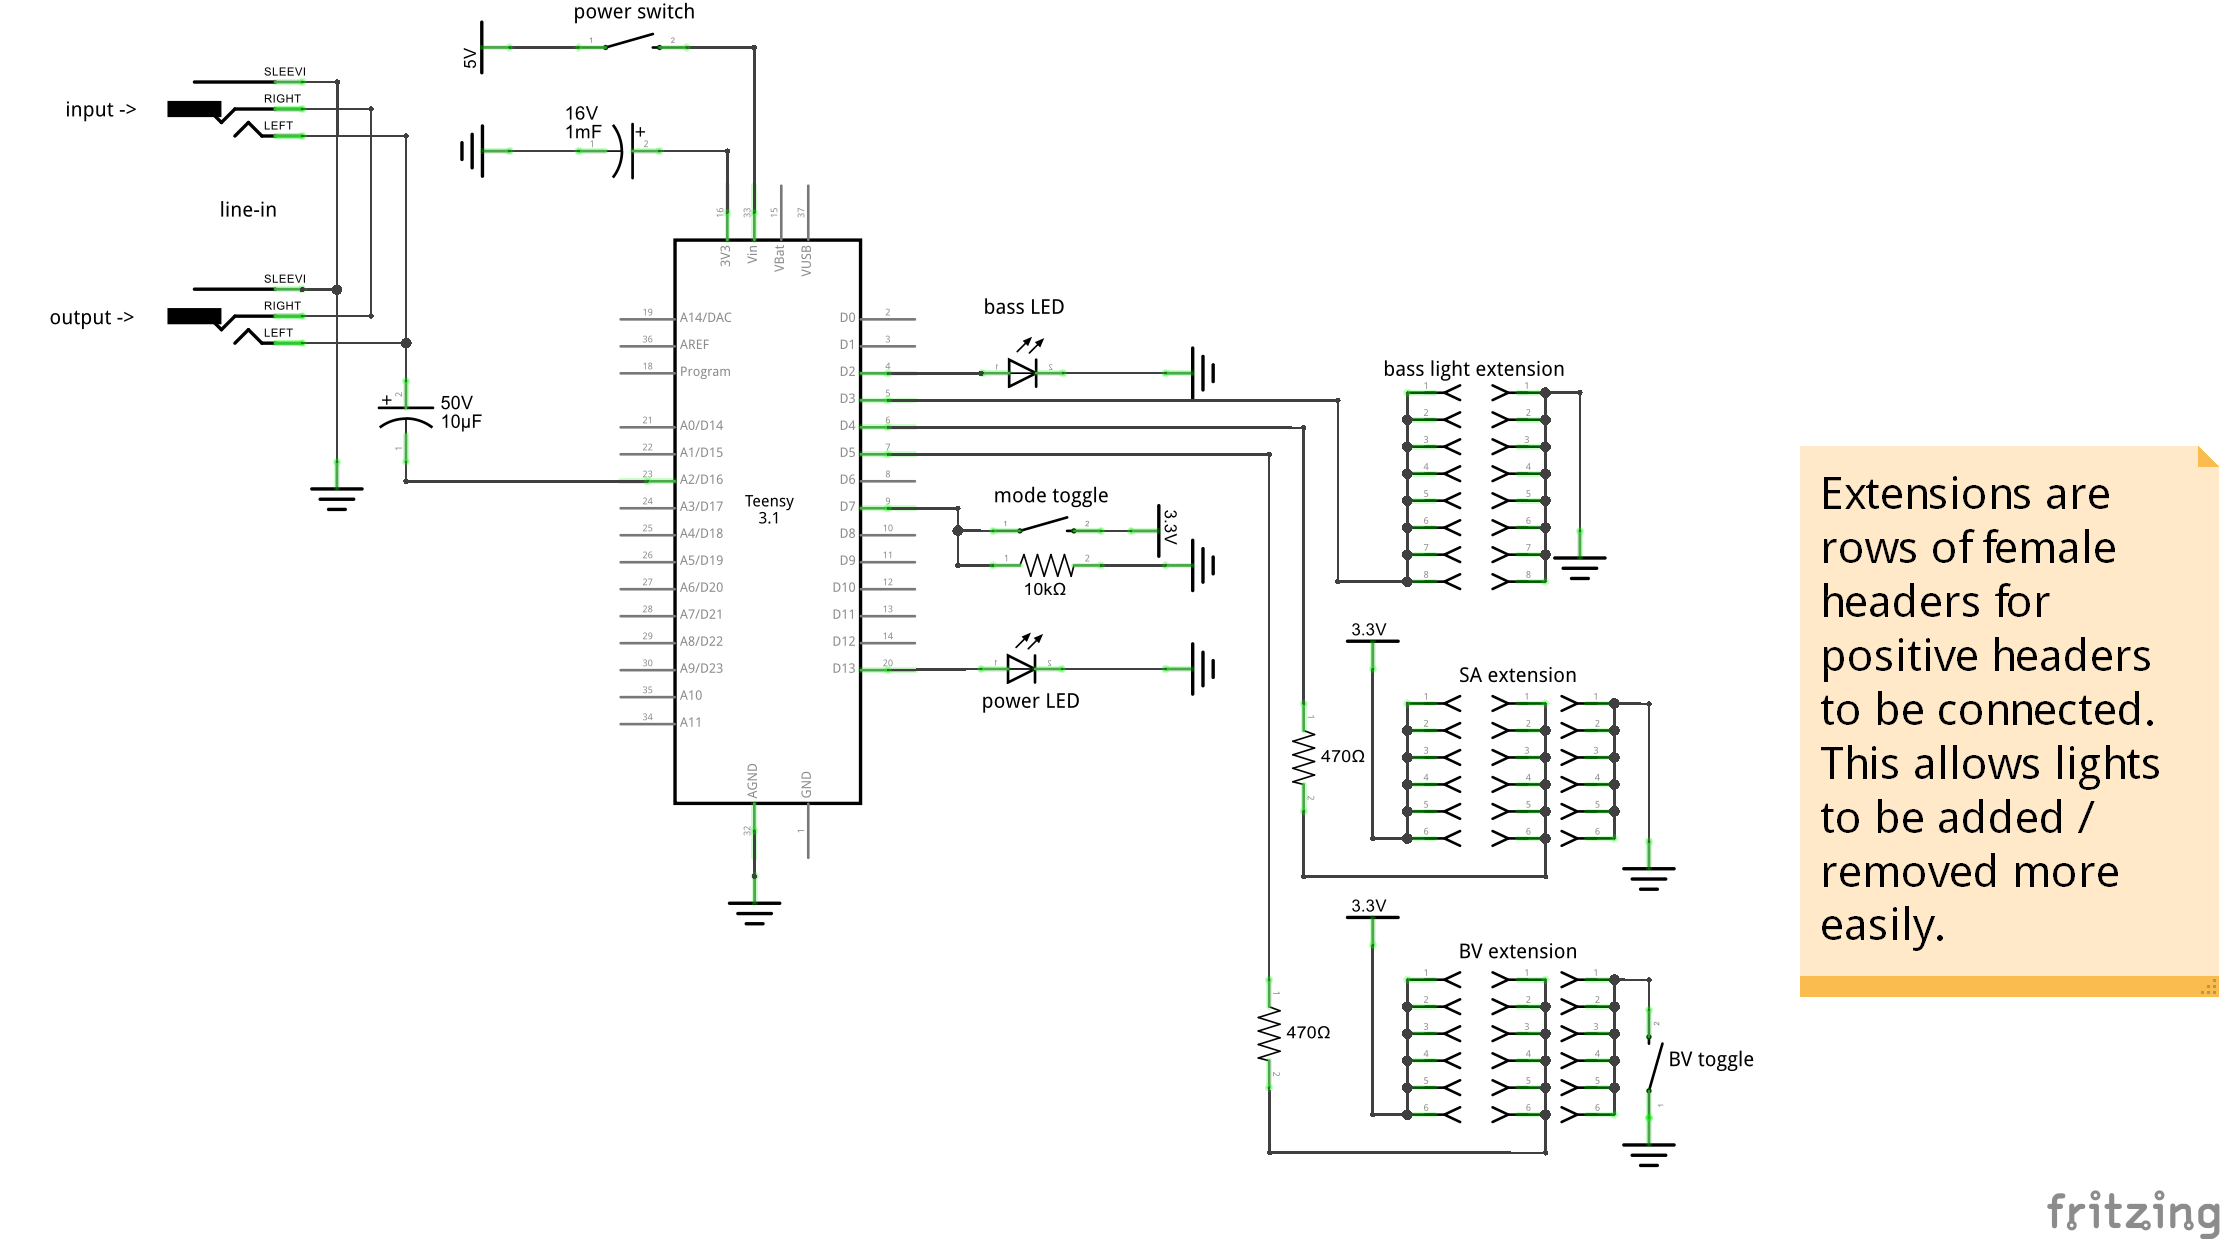
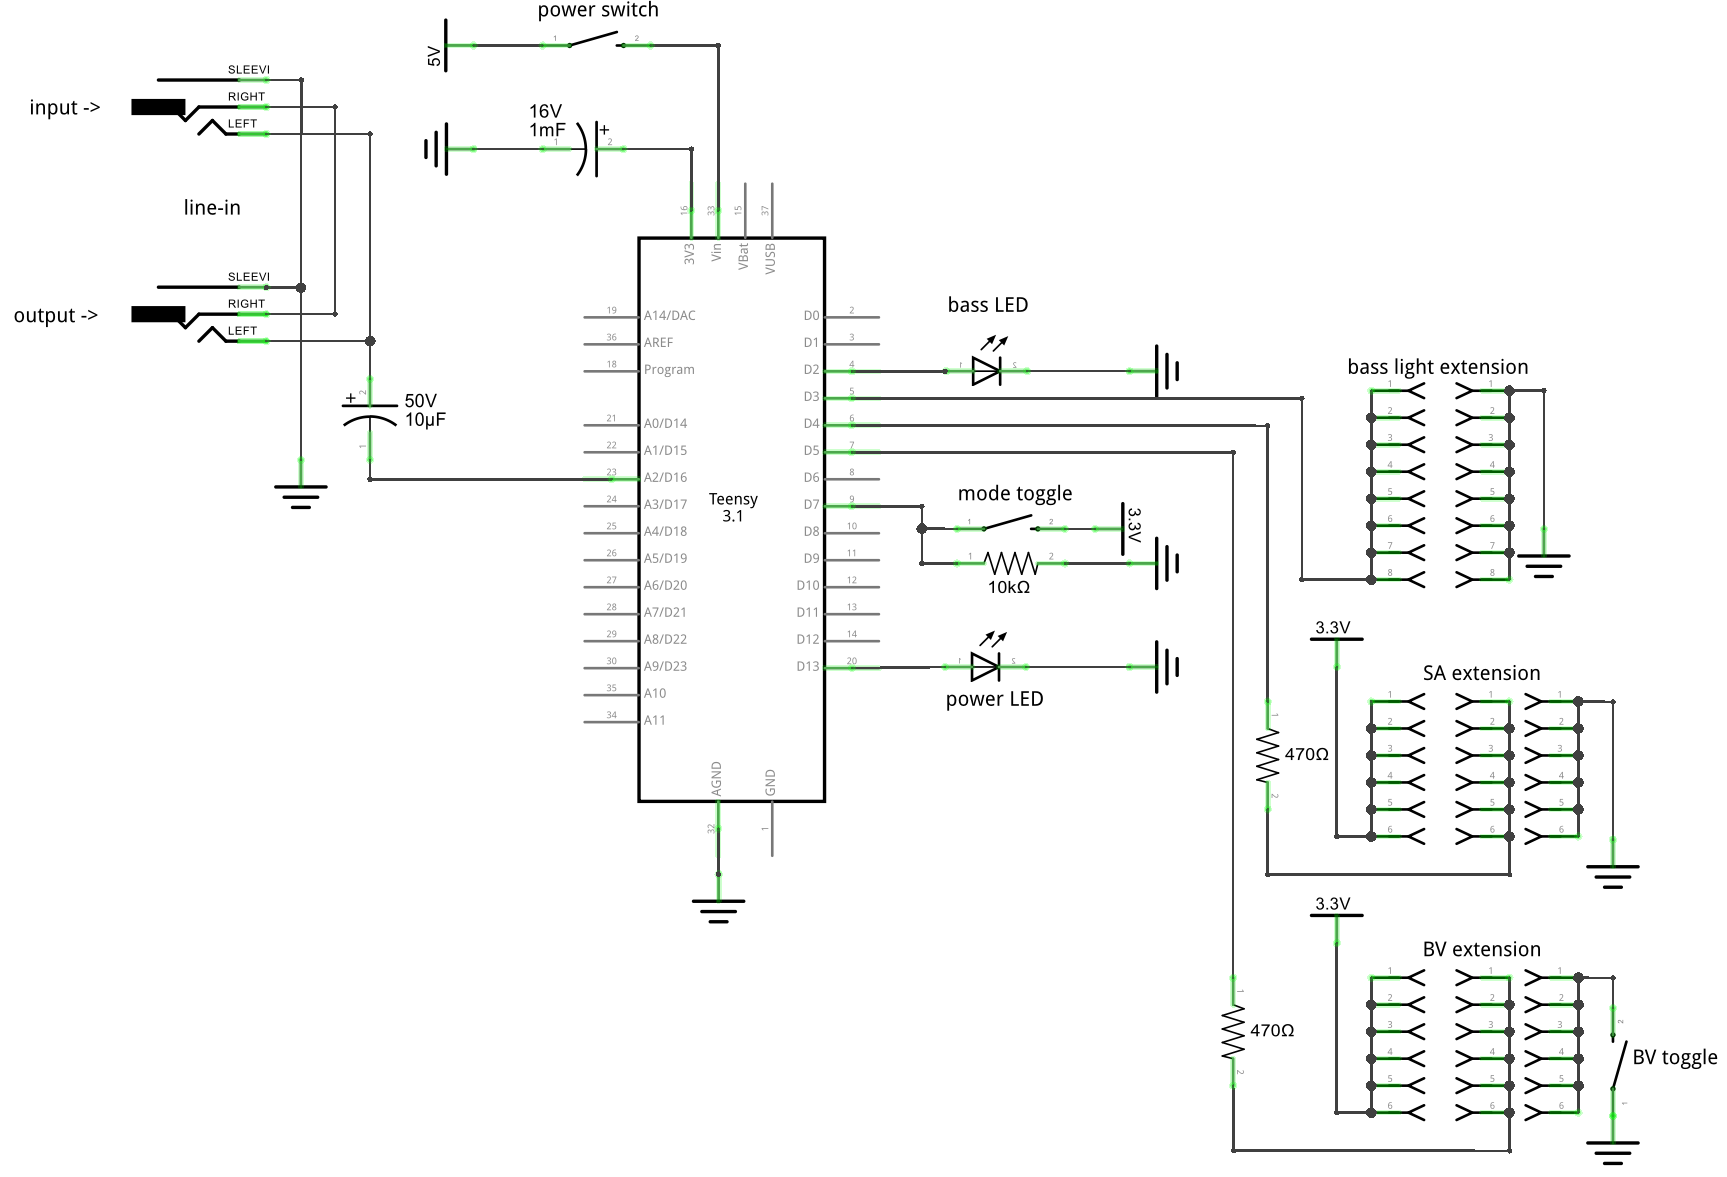
add circuit schem to readme

Changed region(s): [[0.0, 0.0306, 1.0, 1.0], [0.2148, 0.0, 0.399, 0.0612], [0.0307, 0.0612, 0.0614, 0.0918]]

diff --git a/README.md b/README.md
@@ -1,2 +1,4 @@
 # Audiolux 2
 Audiolux is a realtime frequency analyzer. This repo contains the code that runs on its Teensy 3.2 microcontroller.
+
+![Circuit Schematic](schem.png)
